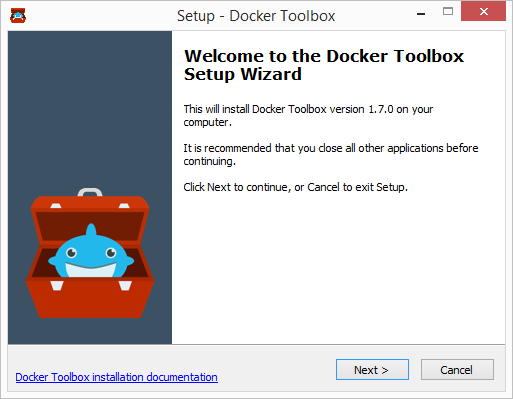
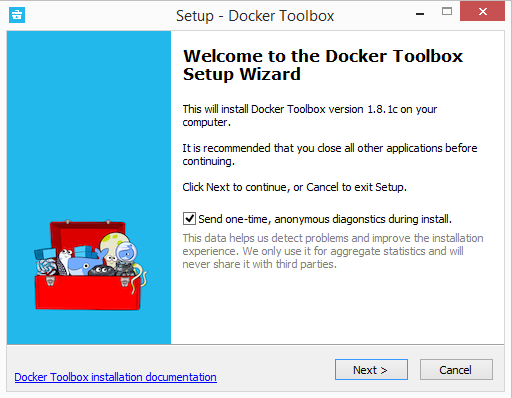
Updates for Toolbox 1.8.1c
(cherry picked from commit 51255c6c3e2d386db476c9b10bdb2bb1e6f92c55)

diff --git a/docs/mac/step_one.md b/docs/mac/step_one.md
@@ -16,7 +16,7 @@ You install Docker using Docker Toolbox. Docker Toolbox includes the following D
 * Docker Compose for running the `docker-compose` binary
 * Kitematic, the Docker GUI
 * a shell preconfigured for a Docker command-line environment
-* Oracle VM VirtualBox 
+* Oracle VM VirtualBox
 
 Because the Docker daemon uses Linux-specific kernel features, you can't run
 Docker natively in OS X. Instead, you must use `docker-machine` to create and
@@ -27,7 +27,7 @@ attach to a Docker VM on your machine. This VM hosts Docker for you on your Mac.
 Your Mac must be running OS X 10.8 "Mountain Lion" or newer to run Docker.
 To find out what version of the OS you have:
 
-1. Choose **About this Mac** from the Apple menu. 
+1. Choose **About this Mac** from the Apple menu.
 
     ![Which version](/mac/images/which_version.png)
 
@@ -48,39 +48,40 @@ To find out what version of the OS you have:
 3. Install Docker Toolbox by double-clicking the package or by right-clicking
 and choosing "Open" from the pop-up menu.
 
-    The installer launches the "Install Docker Toolbox" dialog.
-    
+    The installer launches an introductory dialog, followed by an overview of what's installed.
+
     ![Install Docker Toolbox](/mac/images/mac-welcome-page.png)
 
 4. Press **Continue** to install the toolbox.
 
     The installer presents you with options to customize the standard
-    installation. 
-  
+    installation.
+
     ![Standard install](/mac/images/mac-page-two.png)
-  
+
     By default, the standard Docker Toolbox installation:
-  
-    * installs binaries for the Docker tools in `/usr/local/bin` 
-    * makes these binaries available to all users 
-    * updates any existing Virtual Box installation 
-  
+
+    * installs binaries for the Docker tools in `/usr/local/bin`
+    * makes these binaries available to all users
+    * updates any existing Virtual Box installation
+
     For now, don't change any of the defaults.
 
 5. Press **Install** to perform the standard installation.
 
      The system prompts you for your password.
-   
+
      ![Password prompt](/mac/images/mac-password-prompt.png)
-   
+
 6. Provide your password to continue with the installation.
 
-     When it completes, the installer provides you with some information you can
-     use to complete some common tasks. You can ignore these for now.
-   
+     When it completes, the installer provides you with some shortcuts. You can ignore this for now and click **Continue**.
+
+     ![Quickstart](/mac/images/mac-page-quickstart.png)
+
+     Then click **Close** to finish the installer.
+
      ![All finished](/mac/images/mac-page-finished.png)
-   
-7. Press **Close** to exit.
 
 
 
@@ -88,7 +89,7 @@ and choosing "Open" from the pop-up menu.
 
 To run a Docker container, you:
 
-* create a new (or start an existing) Docker virtual machine 
+* create a new (or start an existing) Docker virtual machine
 * switch your environment to your new VM
 * use the `docker` client to create, load, and manage containers
 
@@ -98,11 +99,11 @@ Virtual Box VM, it maintains its configuration between uses.
 1. Open the **Launchpad** and locate the Docker Quickstart Terminal icon.
 
     ![Launchpad](/mac/images/applications_folder.png)
-    
+
 2. Click the icon to launch a Docker Quickstart Terminal window.
 
-    The terminal does a number of things to set up Docker Quickstart Terminal for you. 
-    
+    The terminal does a number of things to set up Docker Quickstart Terminal for you.
+
         Last login: Sat Jul 11 20:09:45 on ttys002
         bash '/Applications/Docker Quickstart Terminal.app/Contents/Resources/Scripts/start.sh'
         Get http:///var/run/docker.sock/v1.19/images/json?all=1&filters=%7B%22dangling%22%3A%5B%22true%22%5D%7D: dial unix /var/run/docker.sock: no such file or directory. Are you trying to connect to a TLS-enabled daemon without TLS?
@@ -133,10 +134,10 @@ Virtual Box VM, it maintains its configuration between uses.
 
 3.  Click your mouse in the terminal window to make it active.
 
-    If you aren't familiar with a terminal window, here are some quick tips. 
-    
-    ![Teriminal](/tutimg/terminal.png) 
-    
+    If you aren't familiar with a terminal window, here are some quick tips.
+
+    ![Teriminal](/tutimg/terminal.png)
+
     The prompt is traditionally a `$` dollar sign. You type commands into the
     *command line* which is the area after the prompt. Your cursor is indicated
     by a highlighted area or a `|` that appears in the command line. After
@@ -146,12 +147,12 @@ Virtual Box VM, it maintains its configuration between uses.
 
     The command does some work for you, if everything runs well, the command's
     output looks like this:
-    
+
         $ docker run hello-world
         Unable to find image 'hello-world:latest' locally
         Pulling repository hello-world
-        91c95931e552: Download complete 
-        a8219747be10: Download complete 
+        91c95931e552: Download complete
+        a8219747be10: Download complete
         Status: Downloaded newer image for hello-world:latest
         Hello from Docker.
         This message shows that your installation appears to be working correctly.

diff --git a/docs/windows/step_one.md b/docs/windows/step_one.md
@@ -17,12 +17,12 @@ Windows.
 
 ## Step 1: Check your version
 
-Your machine must be running Windows 7.1, 8/8.1 or newer to run Docker Toolbox. Windows 10 is not supported. To find out what version of Windows you have:
+Your machine must be running Windows 7.1, 8/8.1 or newer to run Docker Toolbox. To find out what version of Windows you have:
 
-1. Right click the windows message and choose **System*. 
+1. Right click the windows message and choose **System*.
 
     ![Which version](/windows/images/win_ver.png)
-    
+
     If you aren't using a supported version, you could consider upgrading your
     operating system.
 
@@ -30,17 +30,17 @@ Your machine must be running Windows 7.1, 8/8.1 or newer to run Docker Toolbox. 
 
     #### For Windows 8 or 8.1
 
-	  Choose **Start > Task Manager** and navigate to the **Performance** tab.          
+	  Choose **Start > Task Manager** and navigate to the **Performance** tab.
 	  Under **CPU** you should see the following:
 
       ![Release page](/windows/images/virtualization.png)
-    
+
     If virtualization is not enabled on your system, follow the manufacturer's instructions for enabling it.
-    
-    ### For Windows 7 
-    
+
+    ### For Windows 7
+
 	  Run the <a href="http://www.microsoft.com/en-us/download/details.aspx?id=592"
-target="_blank"> Microsoft® Hardware-Assisted Virtualization Detection Tool</a> 
+target="_blank"> Microsoft® Hardware-Assisted Virtualization Detection Tool</a>
 and follow the on-screen instructions.
 
 
@@ -50,13 +50,13 @@ In this section, you install the Docker Toolbox software and several "helper" ap
 
 * Docker Client for Windows
 * Docker Toolbox management tool and ISO
-* Oracle VM VirtualBox 
+* Oracle VM VirtualBox
 * Git MSYS-git UNIX tools
 
 If you have a previous version of VirtualBox installed, do not reinstall it with the Docker Toolbox installer. When prompted, uncheck it.
 
 If you have Virtual Box running, you must shut it down before running the
-installer. 
+installer.
 
 1. Go to the <a href="https://www.docker.com/toolbox" targe="_blank">Docker Toolbox</a> page.
 
@@ -65,24 +65,24 @@ installer.
 3. Install Docker Toolbox by double-clicking the installer.
 
     The installer launches the "Setup - Docker Toolbox" dialog.
-    
+
     If Windows security dialog prompts you to allow the program to make a
     change, choose **Yes**. The system displays the **Setup - Docker Toolbox for
     Windows** wizard.
-   
+
       ![Release page](/windows/images/installer_open.png)
 
 4. Press **Next** to accept all the defaults and then **Install**.
 
 	  Accept all the installer defaults. The installer takes a few minutes to install all the components:
-        
+
 5.  When notified by Windows Security the installer will make changes, make sure you allow the installer to make the necessary changes.
-    
+
     When it completes, the installer reports it was successful:
-    
+
     ![Success](/windows/images/finish.png)
-    
-6. Press **Finish**.
+
+6. Uncheck "View Shortcuts in File Explorer" and press **Finish**.
 
 
 ## Step 3. Verify your installation
@@ -93,23 +93,23 @@ In this step, you start Docker Toolbox and run a simple Docker command.
 1. On your Desktop, find the Docker Toolbox icon.
 
     ![Desktop](/windows/images/icon-set.png)
-    
+
 2. Click the icon to launch a Docker Toolbox terminal.
 
     If the system displays a **User Account Control** prompt to allow VirtualBox to make changes to your computer. Choose **Yes**.
 
     The terminal does several things to set up Docker Toolbox for you. When it is done, the terminal displays the `$` prompt.
-    
+
      ![Desktop](/windows/images/b2d_shell.png)
-     
+
     The terminal runs a special `bash` environment instead of the standard Windows command prompt. The `bash` environment is required by Docker.
 
 3.  Make the terminal active by click your mouse next to the `$` prompt.
 
-    If you aren't familiar with a terminal window, here are some quick tips. 
-    
-    ![Teriminal](/tutimg/terminal.png) 
-    
+    If you aren't familiar with a terminal window, here are some quick tips.
+
+    ![Teriminal](/tutimg/terminal.png)
+
     The prompt is traditionally a `$` dollar sign. You type commands into the
     *command line* which is the area after the prompt. Your cursor is indicated
     by a highlighted area or a `|` that appears in the command line. After
@@ -119,12 +119,12 @@ In this step, you start Docker Toolbox and run a simple Docker command.
 
     The command does some work for you, if everything runs well, the command's
     output looks like this:
-    
+
         $ docker run hello-world
         Unable to find image 'hello-world:latest' locally
         Pulling repository hello-world
-        91c95931e552: Download complete 
-        a8219747be10: Download complete 
+        91c95931e552: Download complete
+        a8219747be10: Download complete
         Status: Downloaded newer image for hello-world:latest
         Hello from Docker.
         This message shows that your installation appears to be working correctly.
